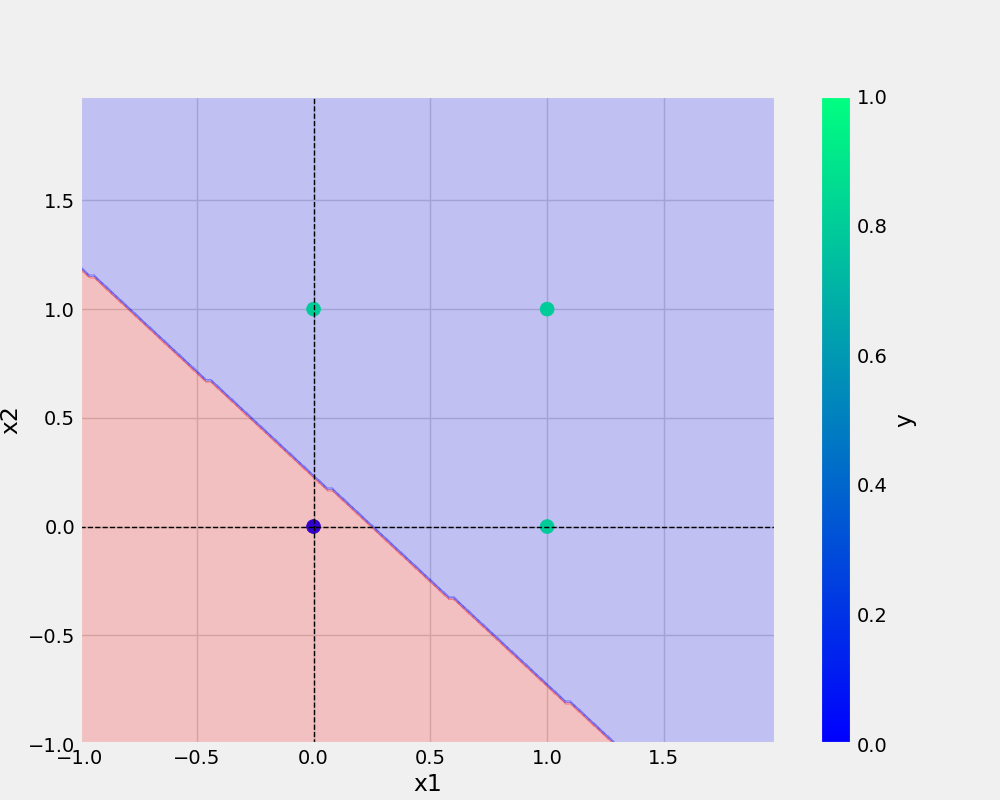
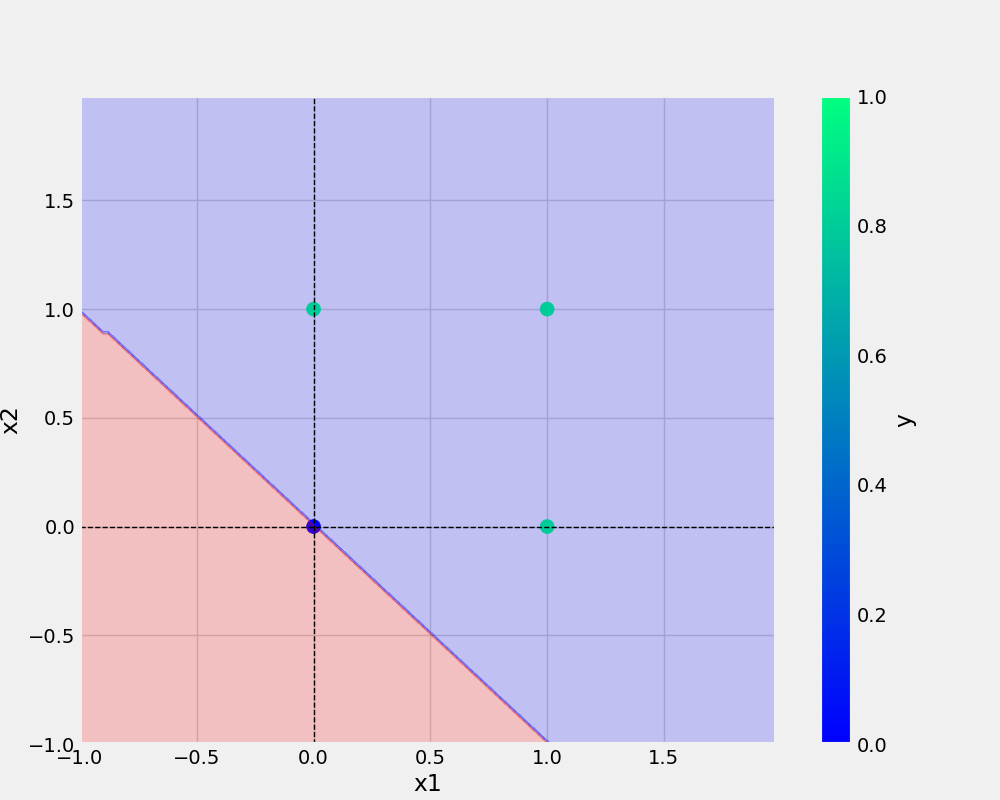
update readme

Changed region(s): [[0.062, 0.3438, 0.62, 0.9375]]

diff --git a/NEWor.py b/NEWor.py
@@ -1,0 +1,41 @@
+
+from oneNeuron.perceptron import Perceptron
+from utils.model import Perceptron
+from utils.all_utils import prepare_data, save_plot, save_model
+import pandas as pd
+import logging
+import os
+
+logging_str = "[%(asctime)s: %(levelname)s: %(module)s] %(message)s"
+log_dir = "logs" 
+os.makedirs(log_dir, exist_ok=True)
+logging.basicConfig(filename=os.path.join("running_logs.log"), level=logging.INFO, format=logging_str, filemode="a")
+
+
+def main(data, modelName, plotName, eta, epochs):
+    df = pd.DataFrame(data)
+    logging.info(f"this is actual dataframe{df}")
+    X, y = prepare_data(df)
+    model = Perceptron(eta=eta, epochs=epochs)
+    model.fit(X, y)
+    _ = model.total_loss()
+    save_model(model, filename=modelName)
+    save_plot(df, plotName, model)
+
+
+if __name__ == '__main__':
+    OR = {
+        "x1": [0,0,1,1],
+        "x2": [0,1,0,1],
+        "y": [0,1,1,1],
+    }
+    ETA = 0.3 # 0 and 1
+    EPOCHS = 100
+    try:
+        logging.info(">>>>>>>>> starting training >>>>>>>")
+        main(data=OR, modelName="or.model", plotName="or.png", eta=ETA, epochs=EPOCHS)
+        logging.info("<<<<<<< training done successfully <<<<<<<<\n")
+    except Exception as e:
+        logging.exception(e)
+
+   
